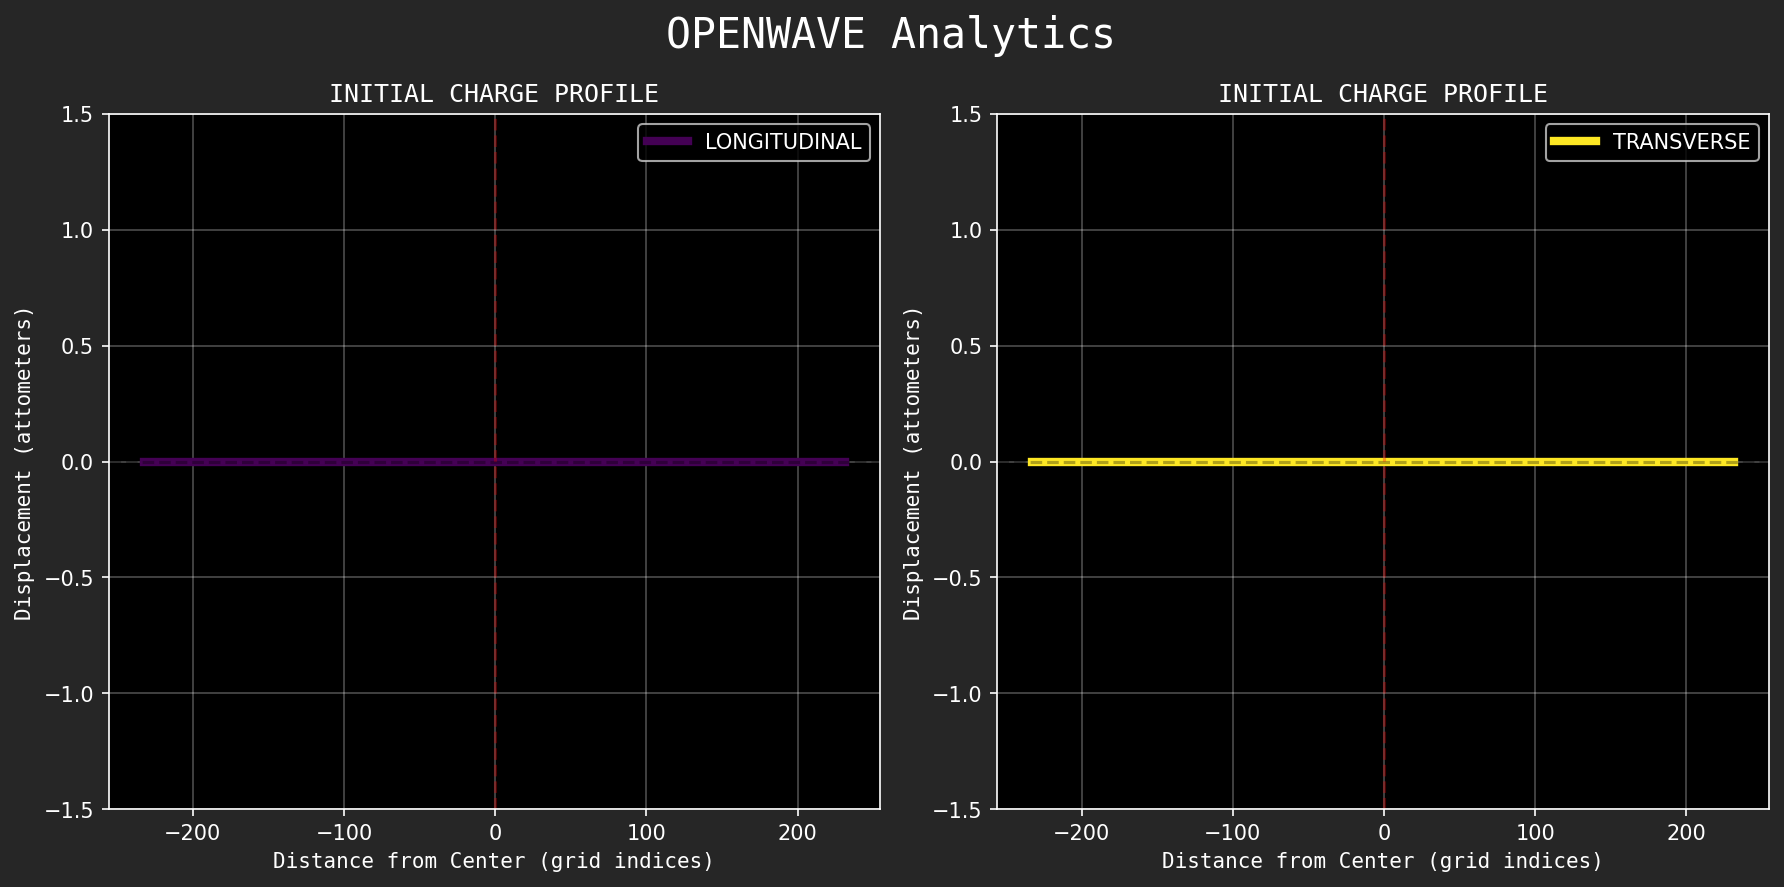
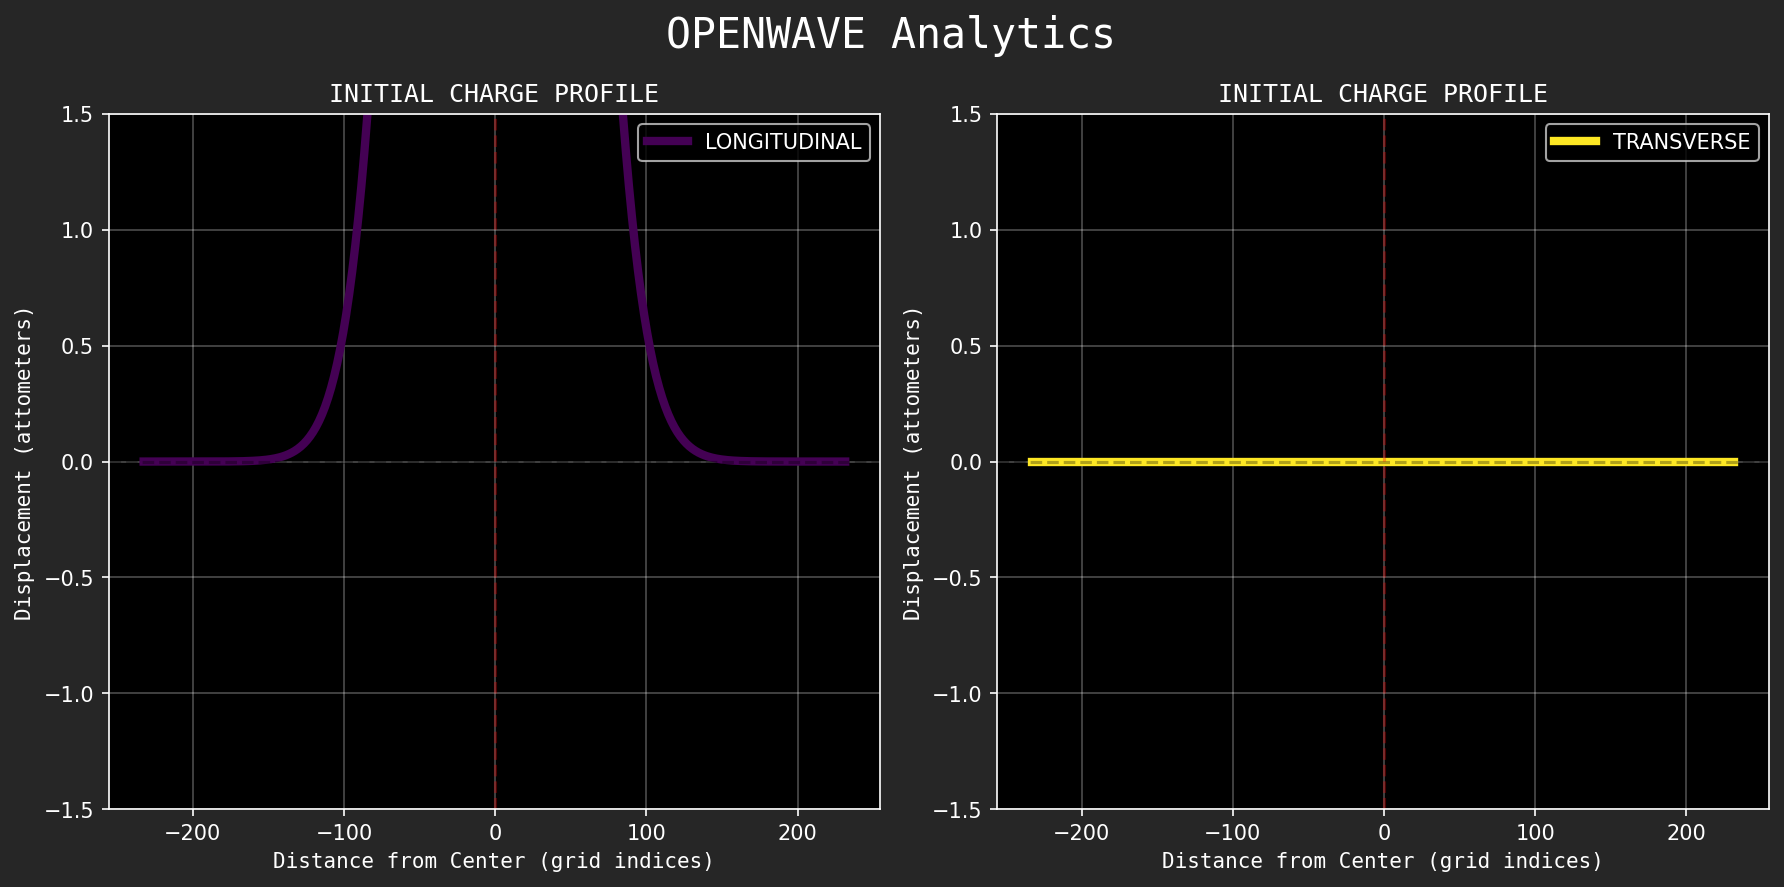
Refine Gaussian amplitude calculation and update dashboard
Adjusted the Gaussian width and amplitude calculation in charge_gaussian to improve numerical stability and match the intended energy distribution. Updated the dashboard display to clarify the FPS requirement. Also updated the displacement_profile.png research image.

Changed region(s): [[0.1541, 0.4566, 0.4008, 0.5479], [0.3391, 0.1218, 0.37, 0.4262], [0.185, 0.1218, 0.2158, 0.4262]]

diff --git a/openwave/spacetime/L1_wave_engine.py b/openwave/spacetime/L1_wave_engine.py
@@ -210,20 +210,19 @@ def charge_gaussian(
     center_y = ti.cast(wave_field.ny, ti.f32) / 2.0
     center_z = ti.cast(wave_field.nz, ti.f32) / 2.0
 
-    # Compute frequency
-    f_slowed = c_slowed / base_wavelength  # slowed frequency (1Hz * boost)
-
-    # Gaussian width in grid units (σ = 1 wavelength)
-    sigma = base_wavelength  # Gaussian width in meters
+    # Gaussian width in grid units (σ = λ/2)
+    sigma = base_wavelength / 2  # Gaussian width in meters
     sigma_grid = sigma / wave_field.dx  # in grid indices
 
     # Calculate amplitude to match desired universe total energy
     # E = ∫ ρ(fA)² × G² dV where G = exp(-r²/(2σ²))
     # For squared Gaussian: ∫ exp(-r²/σ²) dV = (πσ²)^(3/2) = π^(3/2) × σ³
     # Solve for A: A = √(E / (ρf² × π^(3/2) × σ³))
-    g_squared_volume = ti.pow(ti.math.pi, 1.5) * (sigma**3)  # m³
-    A_required = ti.sqrt(wave_field.energy / (rho * base_frequency**2 * g_squared_volume))
-    A_am = A_required / constants.ATTOMETER  # convert to attometers
+    #            = √E / (√ρ × f × π^(3/4) × σ^(3/2))  [restructured to avoid f32 overflow]
+    sqrt_rho_times_f = ti.f32(rho**0.5 * base_frequency)  # ~6.53e36 (within f32 range)
+    g_squared_volume_sqrt = ti.pow(ti.math.pi, 0.75) * ti.pow(sigma, 1.5)  # √(π^(3/2) × σ³)
+    A_required = ti.sqrt(wave_field.energy) / (sqrt_rho_times_f * g_squared_volume_sqrt)
+    A_am = A_required / ti.f32(constants.ATTOMETER)  # convert to attometers
 
     # Apply Gaussian wave packet (interior points only)
     for i, j, k in ti.ndrange(

diff --git a/openwave/xperiments/5_level1_wave_field/L1_launcher.py b/openwave/xperiments/5_level1_wave_field/L1_launcher.py
@@ -328,7 +328,7 @@ def display_data_dashboard(state):
         sub.text("\n--- TIMESTEP ---", color=colormap.LIGHT_BLUE[1])
         sub.text(f"c_slowed: {state.c_slowed:.2e} m/s")
         sub.text(
-            f"dt: {state.dt:.3f}s ({1/state.dt:.0f} FPS)",
+            f"dt: {state.dt:.3f}s (needs {1/state.dt:.0f} FPS)",
             color=(1.0, 1.0, 1.0) if state.cfl_factor <= (1 / 3) else (1.0, 0.0, 0.0),
         )
         sub.text(